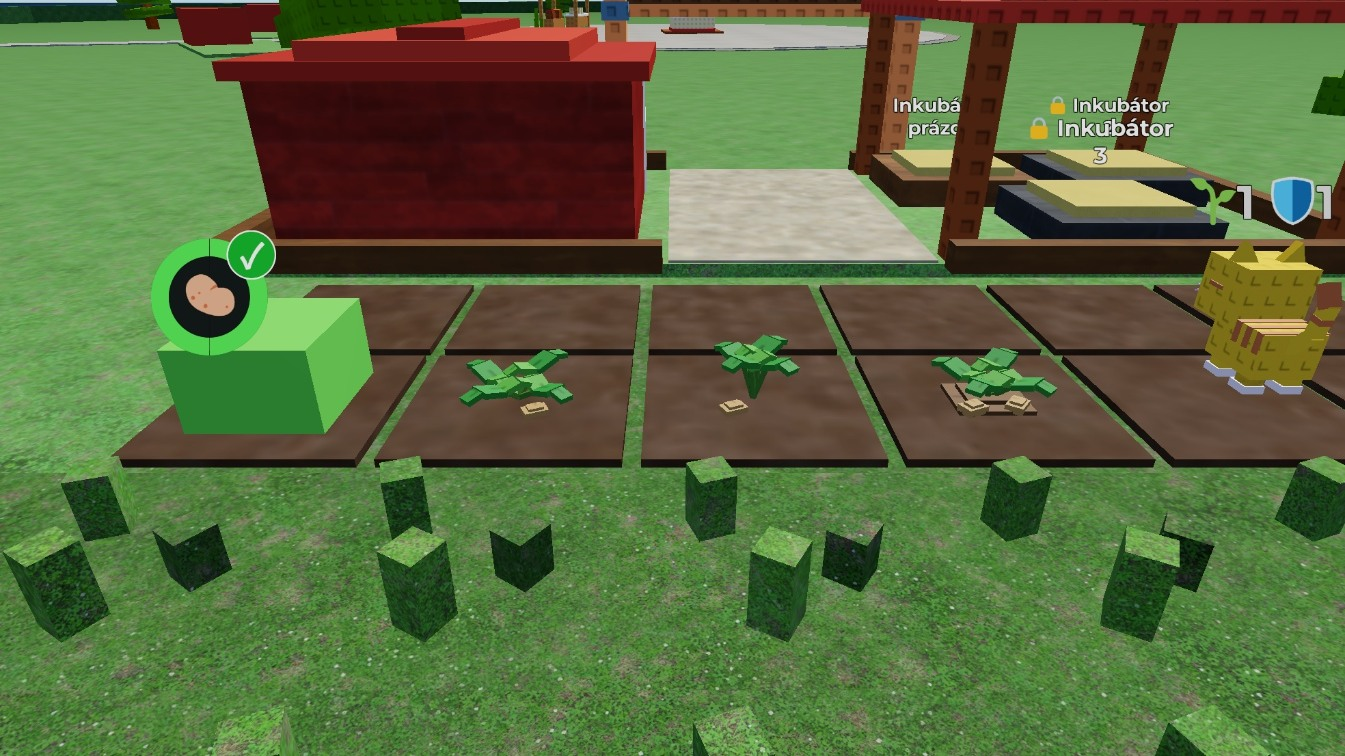
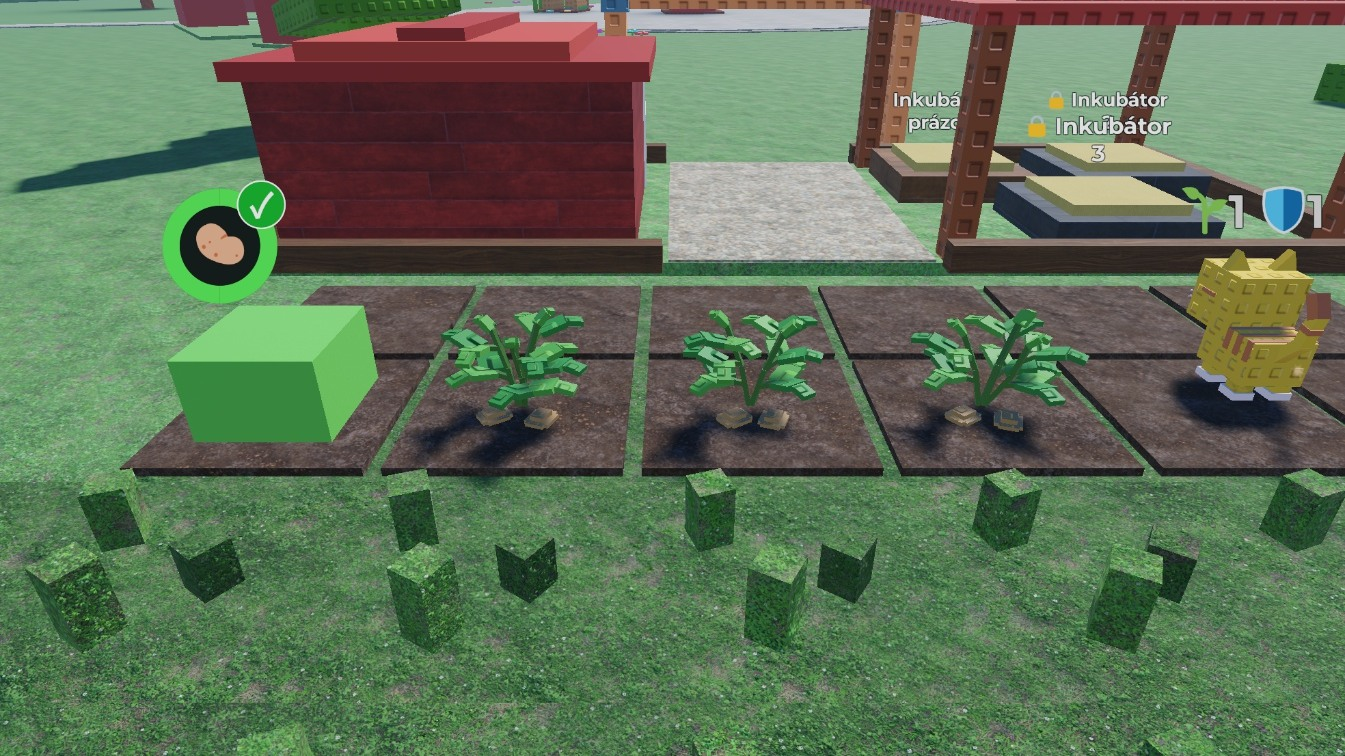
Revise Potato studies to upright branching foliage from reference

diff --git a/docs/EXPANSION.md b/docs/EXPANSION.md
@@ -234,19 +234,24 @@ Perennials will retain structure maturity while fruit slots have separate growth
 #### CG3 — Potato growth design (for review)
 
 **CG3a** is the [ripe silhouette comparison](art/potato/ripe-studies.jpg), captured from Studio with the actual field renderer:
-A, a low rosette (22 Parts); B, a tufted bush (22); C, foliage on a soil mound with two tuber shoulders (26).
+A, a bushy upright plant (48 Parts); B, open branching (44); C, leaning upright (48).
+All three have several green shoots, leaf pairs at different heights and two partly buried brown tuber shoulders.
+The measured mature height is about 2.75–3.08 studs; ground width is about 3.18–3.47 studs on the 5.5-stud square.
 See the [field](art/potato/field.jpg) and [phone-size view](art/potato/phone.jpg). The reproduction tool is
 [`potato_ripe_studies.luau`](../tools/potato_ripe_studies.luau). The developer selects the silhouette before CG3b motion work.
 
-The proposed ten-second annual growth keeps tubers at the soil line and emphasizes unfolding compound leaves.
+**Direction corrected by Ales (2026-11-09).** The first studies were too flat. The [supplied reference](art/potato/reference.png)
+shows upright branching stems with broad paired leaflets at several heights. Ales describes the real plant as 30–50 cm tall.
+Use that structure for the mature silhouette, with brown tuber tops peeking through the soil as an intentional game readability shortcut.
+The proposed ten-second annual growth emphasizes height first, followed by lateral branches and unfolding compound leaves.
 
 | Growth | Proposed motion |
 |---|---|
 | 0% | A small green shoot breaks the soil. |
 | 20% | Two leaves open at slightly different times, pivoting from the shoot. |
-| 50% | Unequal short shoots spread outward; paired leaves unfold and broaden. |
-| 75% | The canopy fills. Small tan tuber shoulders begin to emerge at the soil line. |
-| 100% | Outer leaf tips settle lower; the tan shoulders are fully exposed and the canopy is wider. |
+| 50% | Several unequal upright stems lengthen. Side branches develop paired leaves at lower, middle and upper nodes. |
+| 75% | The layered canopy fills. Small brown tuber shoulders begin to emerge at the soil line. |
+| 100% | The bush reaches its full height and spread. Outer leaf tips settle lower; brown shoulders remain visible beneath the foliage. |
 
 Seeded variation changes shoot angles, canopy spread, leaf sizes and shoulder placement within the selected silhouette.
 **CG3b** reviews a continuous scrubber and seeded loop. **CG3c** registers the approved Potato recipe in the field.

diff --git a/docs/ROADMAP.md b/docs/ROADMAP.md
@@ -104,7 +104,8 @@ the balancing pass (STAGES §6, GDD §6).
 **CG2 — Shared plant growth** is built and Studio-checked (2026-11-09). Register a crop recipe in `PlantGrowth`; generic field timing,
 detail levels, seed identity and scheduling handle it. [Design and interface](EXPANSION.md#cg2--shared-plant-growth-built)
 
-**CG3 — Potato growth art** follows the same review sequence. **CG3a** is ready for selection:
+**CG3 — Potato growth art** follows the same review sequence. **CG3a** was revised to upright, layered foliage from Ales's photo
+(2026-11-09); the low flat studies were rejected. The three revised silhouettes are ready for selection:
 [A / B / C](art/potato/ripe-studies.jpg) · [Field](art/potato/field.jpg) · [Phone-size view](art/potato/phone.jpg).
 Next are **CG3b** motion/seed review, **CG3c** field integration and **CG3d** performance checks.
 
